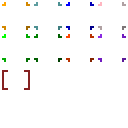
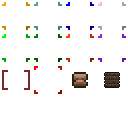
textures

diff --git a/Values/Tile.cs b/Values/Tile.cs
@@ -2,6 +2,7 @@
 using System.Collections.Generic;
 using System.Reflection;
 using TerraIntegration.Basic;
+using TerraIntegration.DataStructures;
 using TerraIntegration.DisplayedValues;
 using TerraIntegration.Interfaces;
 using Terraria.ID;
@@ -14,6 +15,8 @@ namespace TerraIntegration.Values
         public override string Type => "tile";
         public override string TypeDisplay => "Tile";
         public override Color TypeColor => Microsoft.Xna.Framework.Color.SaddleBrown;
+
+        public override SpriteSheetPos SpriteSheetPos => new(BasicSheet, 2, 2);
 
         public int TileType { get; set; }
         public int TileFrameX { get; set; }

diff --git a/Values/Wall.cs b/Values/Wall.cs
@@ -2,6 +2,7 @@
 using System.Collections.Generic;
 using System.Reflection;
 using TerraIntegration.Basic;
+using TerraIntegration.DataStructures;
 using TerraIntegration.Interfaces;
 using Terraria.ID;
 using Terraria.ModLoader;
@@ -13,6 +14,8 @@ namespace TerraIntegration.Values
         public override string Type => "wall";
         public override string TypeDisplay => "Wall";
         public override Color TypeColor => Microsoft.Xna.Framework.Color.Brown;
+        
+        public override SpriteSheetPos SpriteSheetPos => new(BasicSheet, 3, 2);
 
         public int WallType { get; set; }
         public int WallFrameX { get; set; }

diff --git a/Values/Long.cs b/Values/Long.cs
@@ -23,6 +23,8 @@ namespace TerraIntegration.Values
 
         public override Color TypeColor => Color.Red;
 
+        public override SpriteSheetPos SpriteSheetPos => new(BasicSheet, 1, 2);
+
         public long Value { get; set; }
 
         public long NumericValue => Value;
